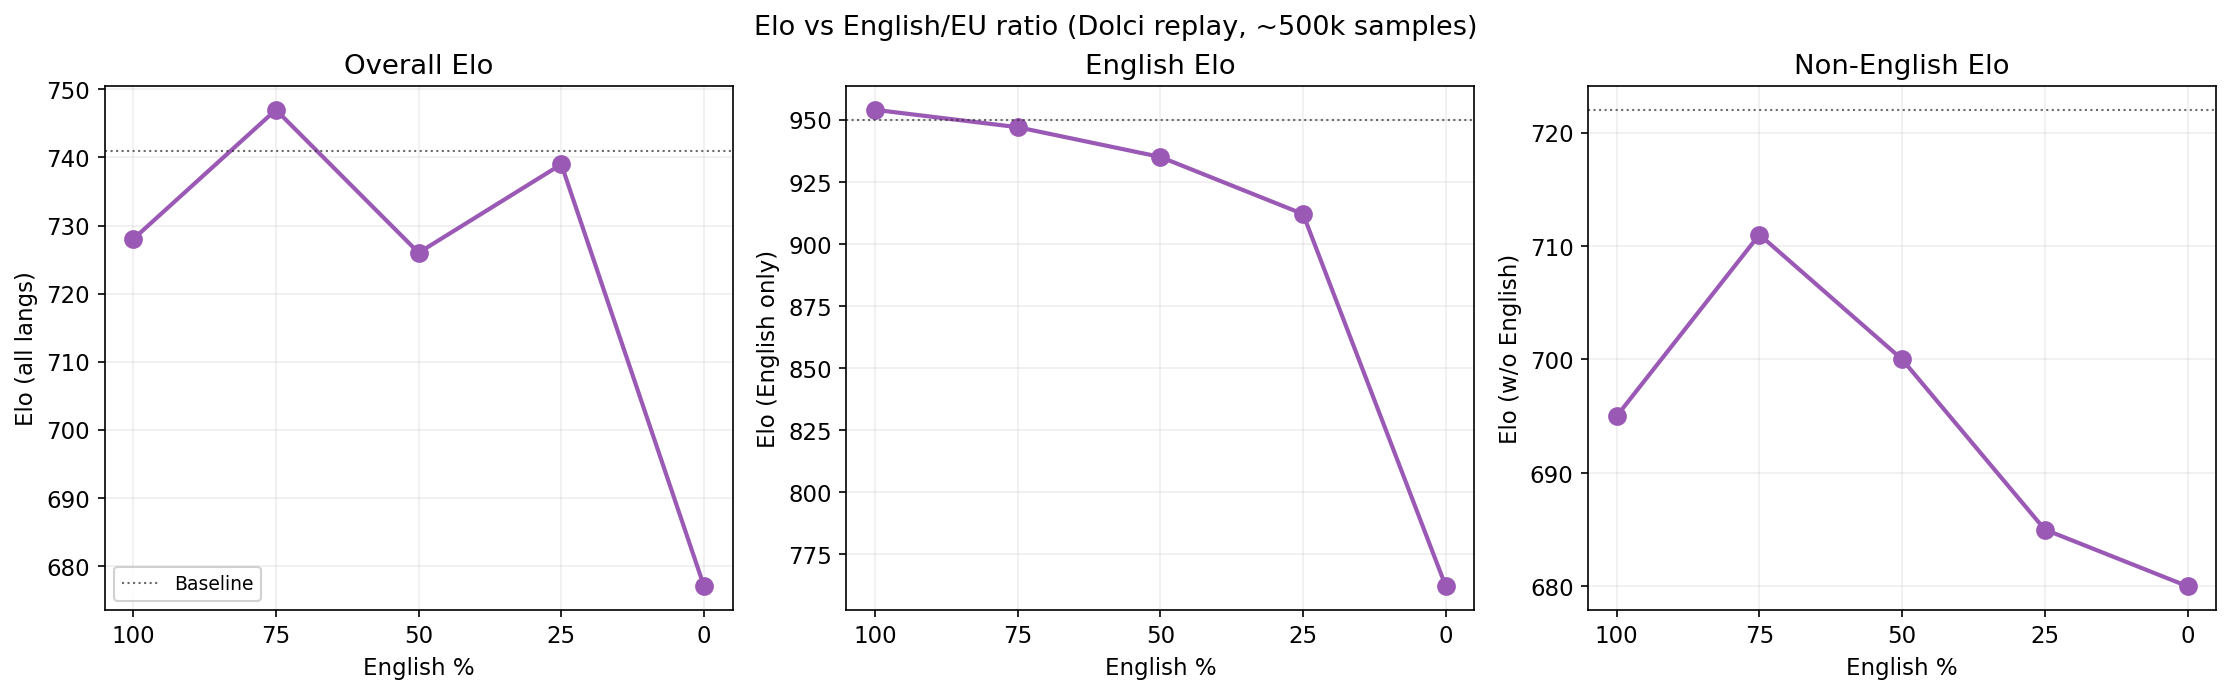
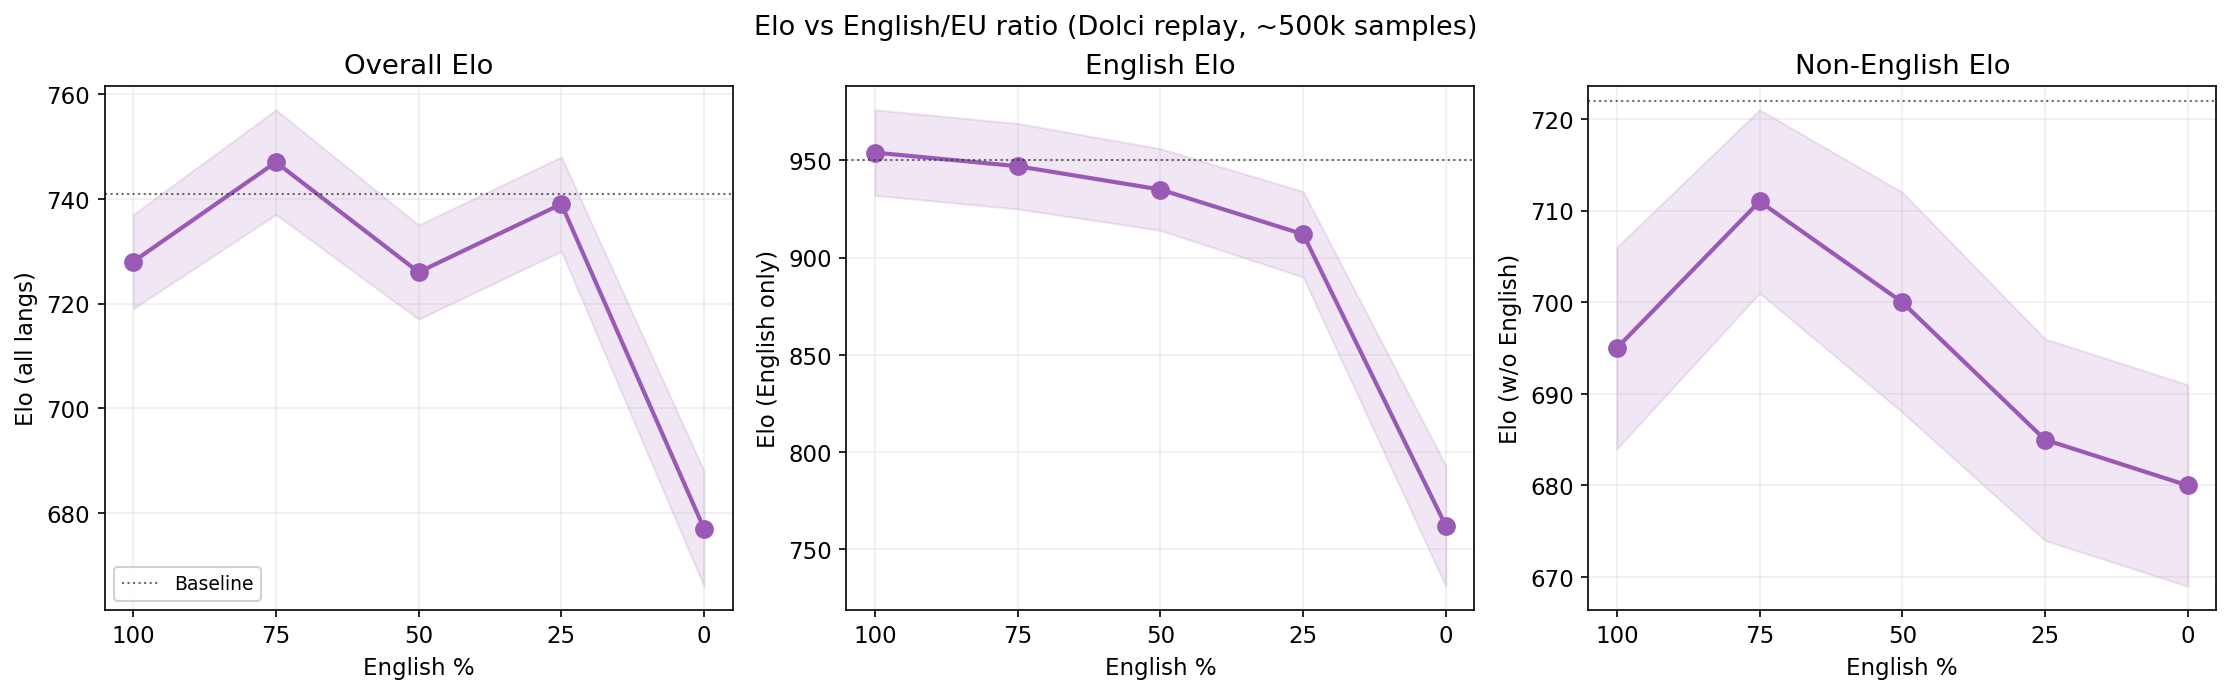
Add CI bands to ratio curve plot

diff --git a/oellm/experiments/multilingual_eu/results/plots/plot_fg_results.py b/oellm/experiments/multilingual_eu/results/plots/plot_fg_results.py
@@ -26,8 +26,11 @@ OUTDIR = "oellm/experiments/multilingual_eu/results/plots"
 F_RATIOS = [100, 75, 50, 25, 0]
 F_NAMES = ["F1-100en", "F2-75en", "F3-50en", "F4-25en", "F5-0en"]
 F_ELO = [728, 747, 726, 739, 677]
+F_ELO_CI = [9, 10, 9, 9, 11]
 F_ELO_EN = [954, 947, 935, 912, 762]
+F_ELO_EN_CI = [22, 22, 21, 22, 31]
 F_ELO_WOEN = [695, 711, 700, 685, 680]
+F_ELO_WOEN_CI = [11, 10, 12, 11, 11]
 F_N = [500, 486, 453, 359, 234]  # in k
 
 # G-track (matched 166k)
@@ -111,12 +114,16 @@ TRACK_COLORS = {
 
 fig, axes = plt.subplots(1, 3, figsize=(15, 4.5), sharey=False)
 
-for ax, (metric, f_vals, g_vals, title) in zip(axes, [
-    ("Elo (all langs)", F_ELO, G_ELO, "Overall Elo"),
-    ("Elo (English only)", F_ELO_EN, G_ELO_EN, "English Elo"),
-    ("Elo (w/o English)", F_ELO_WOEN, G_ELO_WOEN, "Non-English Elo"),
+for ax, (metric, f_vals, f_ci, title) in zip(axes, [
+    ("Elo (all langs)", F_ELO, F_ELO_CI, "Overall Elo"),
+    ("Elo (English only)", F_ELO_EN, F_ELO_EN_CI, "English Elo"),
+    ("Elo (w/o English)", F_ELO_WOEN, F_ELO_WOEN_CI, "Non-English Elo"),
 ]):
-    # F-track
+    f_vals_arr = np.array(f_vals)
+    f_ci_arr = np.array(f_ci)
+    # F-track with CI bands
+    ax.fill_between(F_RATIOS, f_vals_arr - f_ci_arr, f_vals_arr + f_ci_arr,
+                    color=TRACK_COLORS["F"], alpha=0.15)
     ax.plot(F_RATIOS, f_vals, "o-", color=TRACK_COLORS["F"], markersize=8, linewidth=2)
 
     # Baseline reference
